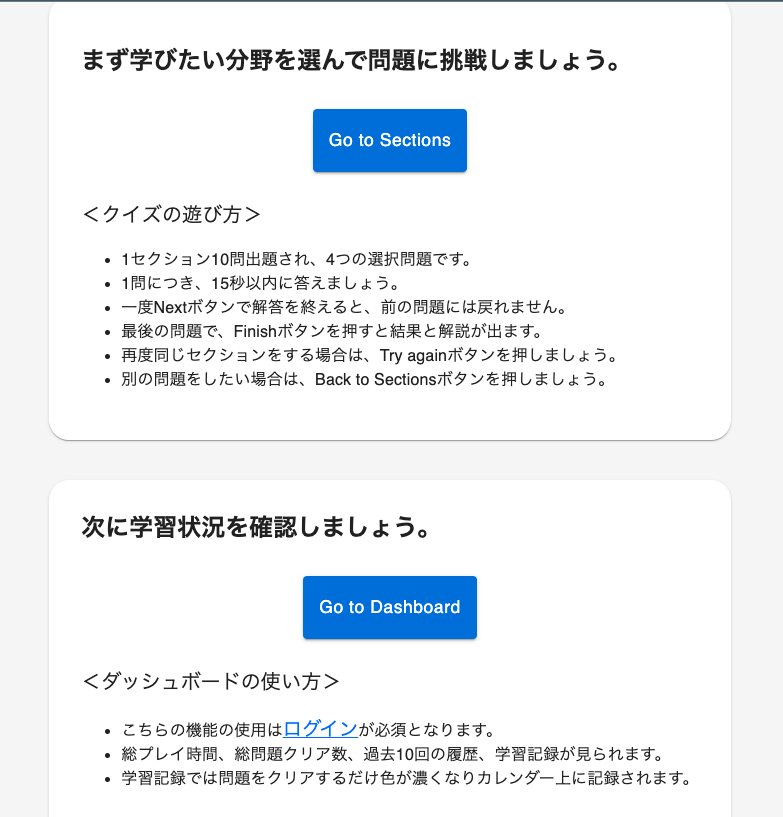
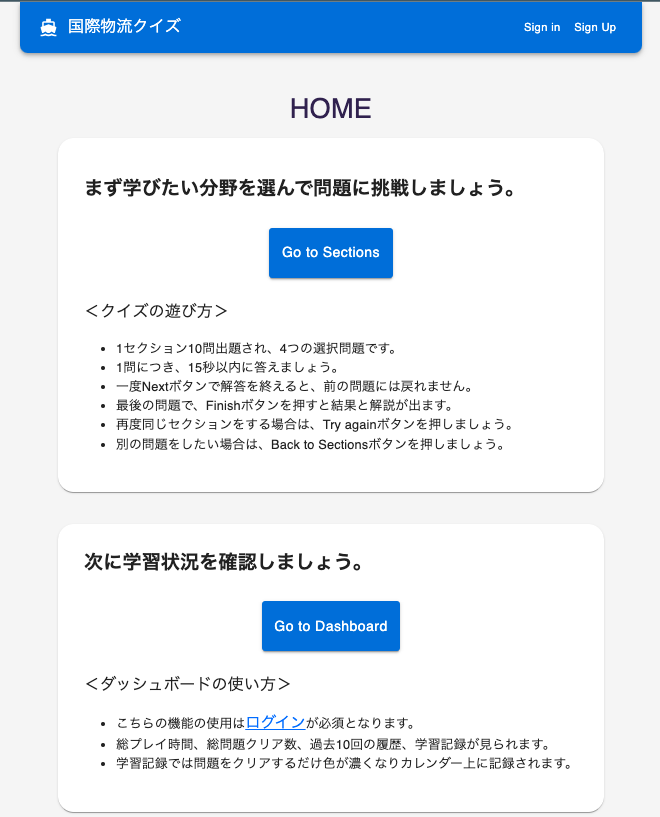
fix section

diff --git a/frontend/app/src/quiz-components/home.tsx b/frontend/app/src/quiz-components/home.tsx
@@ -20,6 +20,9 @@ const Home: React.FC = () => {
 
   return (
     <Container maxWidth="md">
+      <Typography variant="h4" align="center" gutterBottom>
+        HOME
+      </Typography>
       <Paper sx={{ padding: 4, marginTop: 2, marginBottom: 5, borderRadius: 5, }}>
         <Typography variant="h5" paragraph sx={{ marginTop: 2, fontWeight: 'bold' }}>
           まず学びたい分野を選んで問題に挑戦しましょう。
@@ -60,8 +63,10 @@ const Home: React.FC = () => {
         </Typography>
         <Typography variant="body1" component="div">
           <ul>
-            <li>こちらの機能の使用は<a href="http://localhost:3000/confirmation-success" style={{ fontSize: '1.2rem', color: '#007BFF' }}>
+            {!isSignedIn && (
+              <li>こちらの機能の使用は<a href="http://localhost:3000/signin" style={{ fontSize: '1.2rem', color: '#007BFF' }}>
               ログイン</a>が必須となります。</li>
+            )}
             <li>総プレイ時間、総問題クリア数、過去10回の履歴、学習記録が見られます。</li>
             <li>学習記録では問題をクリアするだけ色が濃くなりカレンダー上に記録されます。</li>
           </ul>

diff --git a/frontend/app/src/quiz-components/section.jsx b/frontend/app/src/quiz-components/section.jsx
@@ -12,6 +12,7 @@ const StyledPaper = styled(Paper)(({ theme }) => ({
   padding: '20px',
   backgroundColor: '#D3D3D3',
   cursor: 'pointer',
+  width: '70%',
   transition: 'background-color 0.3s, color 0.3s',
   '&:hover': { // ホバー時に背景の文字の色変更
     backgroundColor: '#1976d2',
@@ -47,7 +48,7 @@ function Section() {
 
     <Grid container spacing={3} className="section-container" sx={{ fontSize: "1.1rem" }}>
     {sections.map(section => (
-      <Grid item xs={12} sm={6} md={4} key={section.id} onClick={() => handleSectionClick(section.id)}>
+      <Grid item xs={12} sm={6} md={6} key={section.id} onClick={() => handleSectionClick(section.id)}>
         <StyledPaper elevation={3}>
           <p>{section.section_name}</p>
         </StyledPaper>

diff --git a/frontend/app/src/layout/header.tsx b/frontend/app/src/layout/header.tsx
@@ -104,7 +104,7 @@ const Header: React.FC = () => {
         <AppBarContent>
           <Toolbar>
             <DirectionsBoatIcon sx={{ marginRight: 1.5 }}></DirectionsBoatIcon>
-            <Typography component={isSignedIn ? Link : "div"} to={isSignedIn ? "/home" : "#"} 
+            <Typography component={Link} to="/home" 
                         variant="h6" sx={{ flexGrow: 1, textDecoration: "none", color: "inherit" }}>
               国際物流クイズ
             </Typography>
